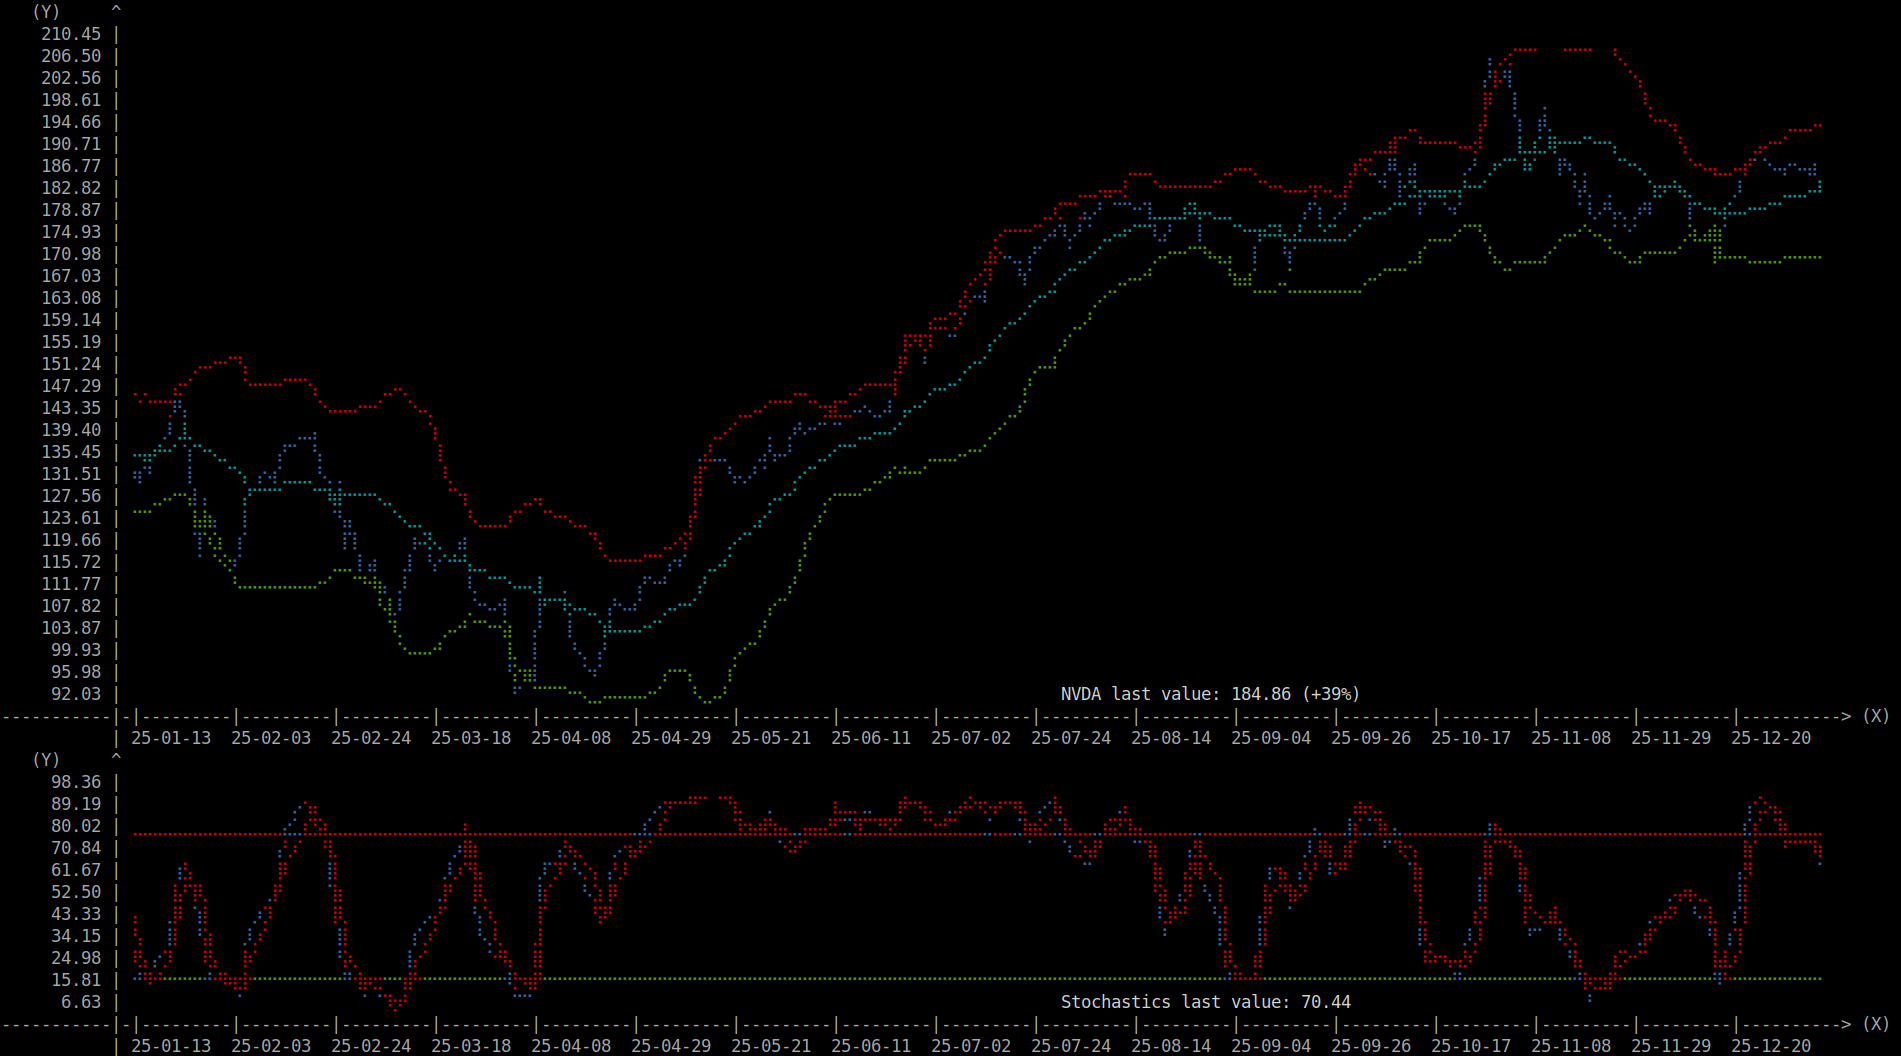
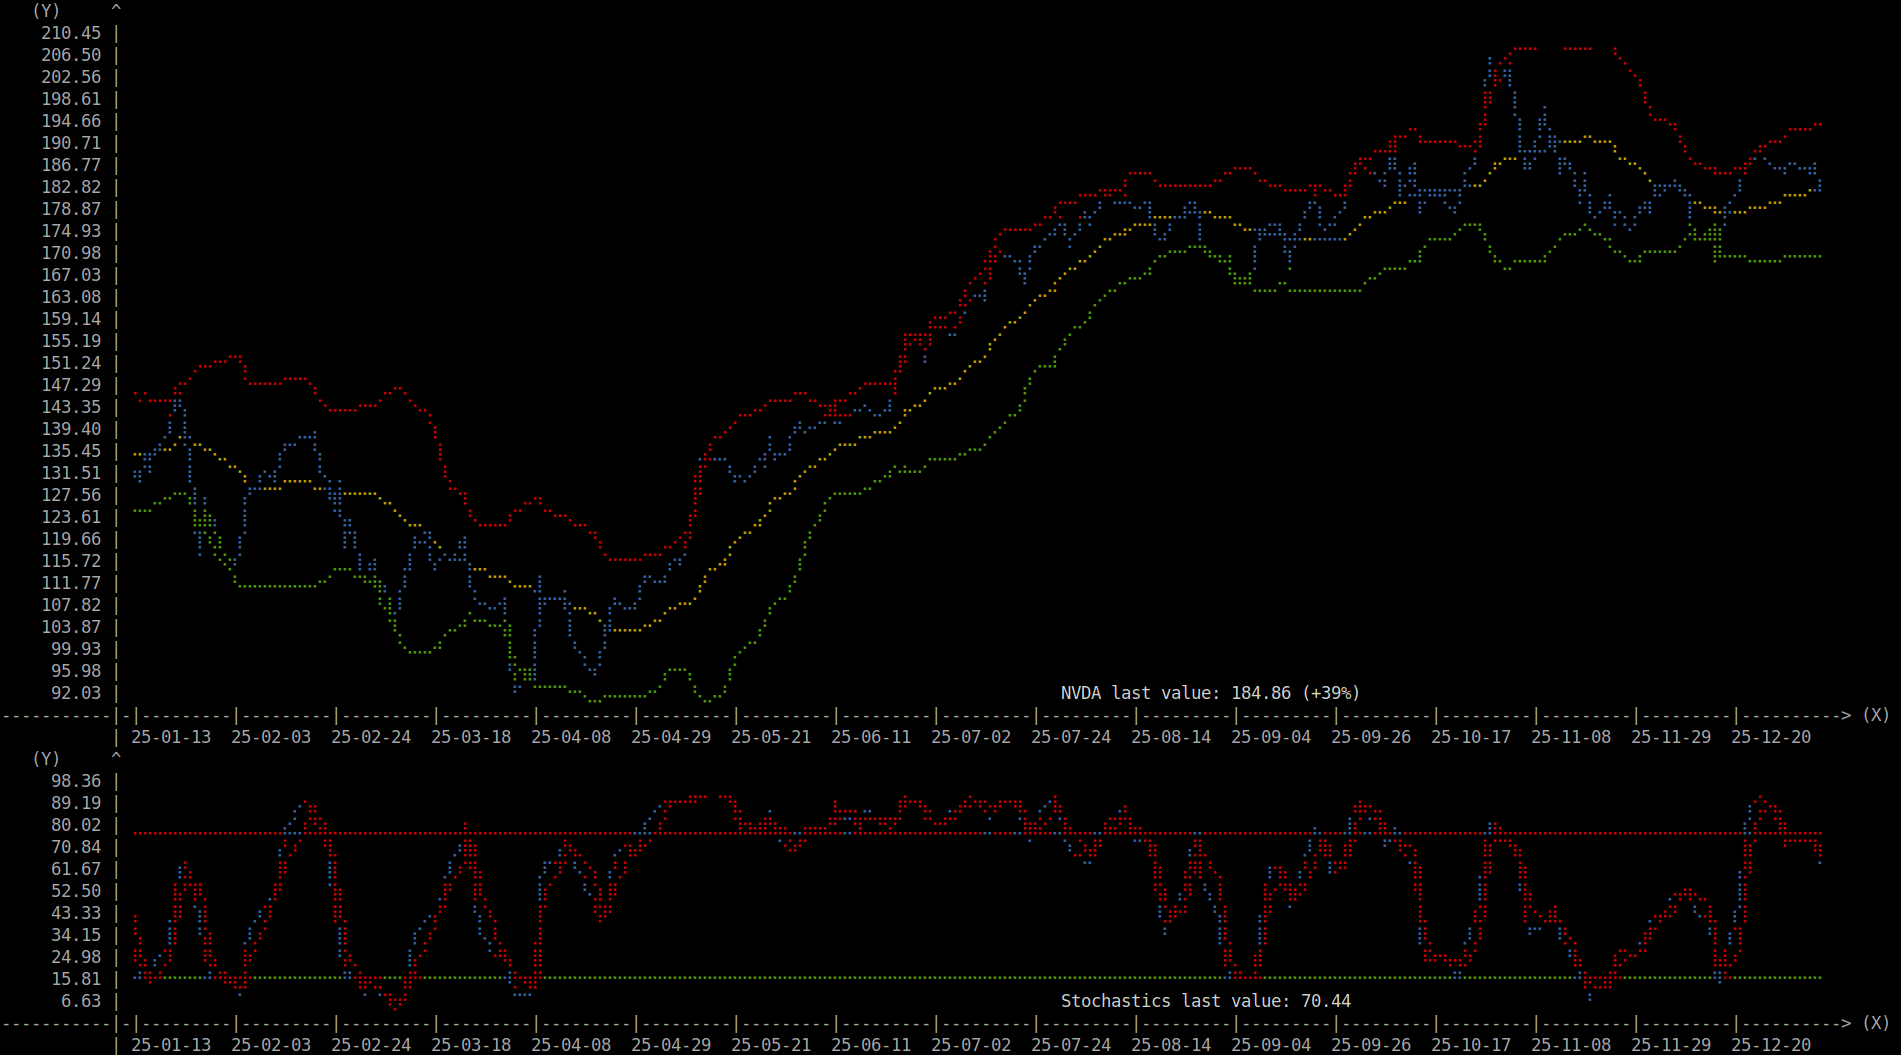
Change the color of the Bollinger Bands SMA line

diff --git a/tsigna.py b/tsigna.py
@@ -71,7 +71,7 @@ OVERSOLD_COLOR = 'green'
 MOVING_AVG_1_COLOR = 'green'
 MOVING_AVG_2_COLOR = 'yellow'
 MOVING_AVG_3_COLOR = 'red'
-BB_SMA_COLOR = 'cyan'
+BB_SMA_COLOR = 'yellow'
 BB_UPPER_BAND_COLOR = 'red'
 BB_LOWER_BAND_COLOR = 'green'
 MACD_SIGNAL_COLOR = 'red'
@@ -472,8 +472,8 @@ def plot_data(df, plot_name, plot_type, height_ratio=1):
         last = f'{obv[-1]:,.0f}'
         text = f'OBV last value: {last}'
     elif plot_type == 'bb':
-        fig.plot(dates, close, lc=MAIN_LINE_COLOR)
         fig.plot(dates, sma, lc=BB_SMA_COLOR)
+        fig.plot(dates, close, lc=MAIN_LINE_COLOR)
         fig.plot(dates, upper, lc=BB_UPPER_BAND_COLOR)
         fig.plot(dates, lower, lc=BB_LOWER_BAND_COLOR)
         last = f'{close[-1]:,.2f}'
